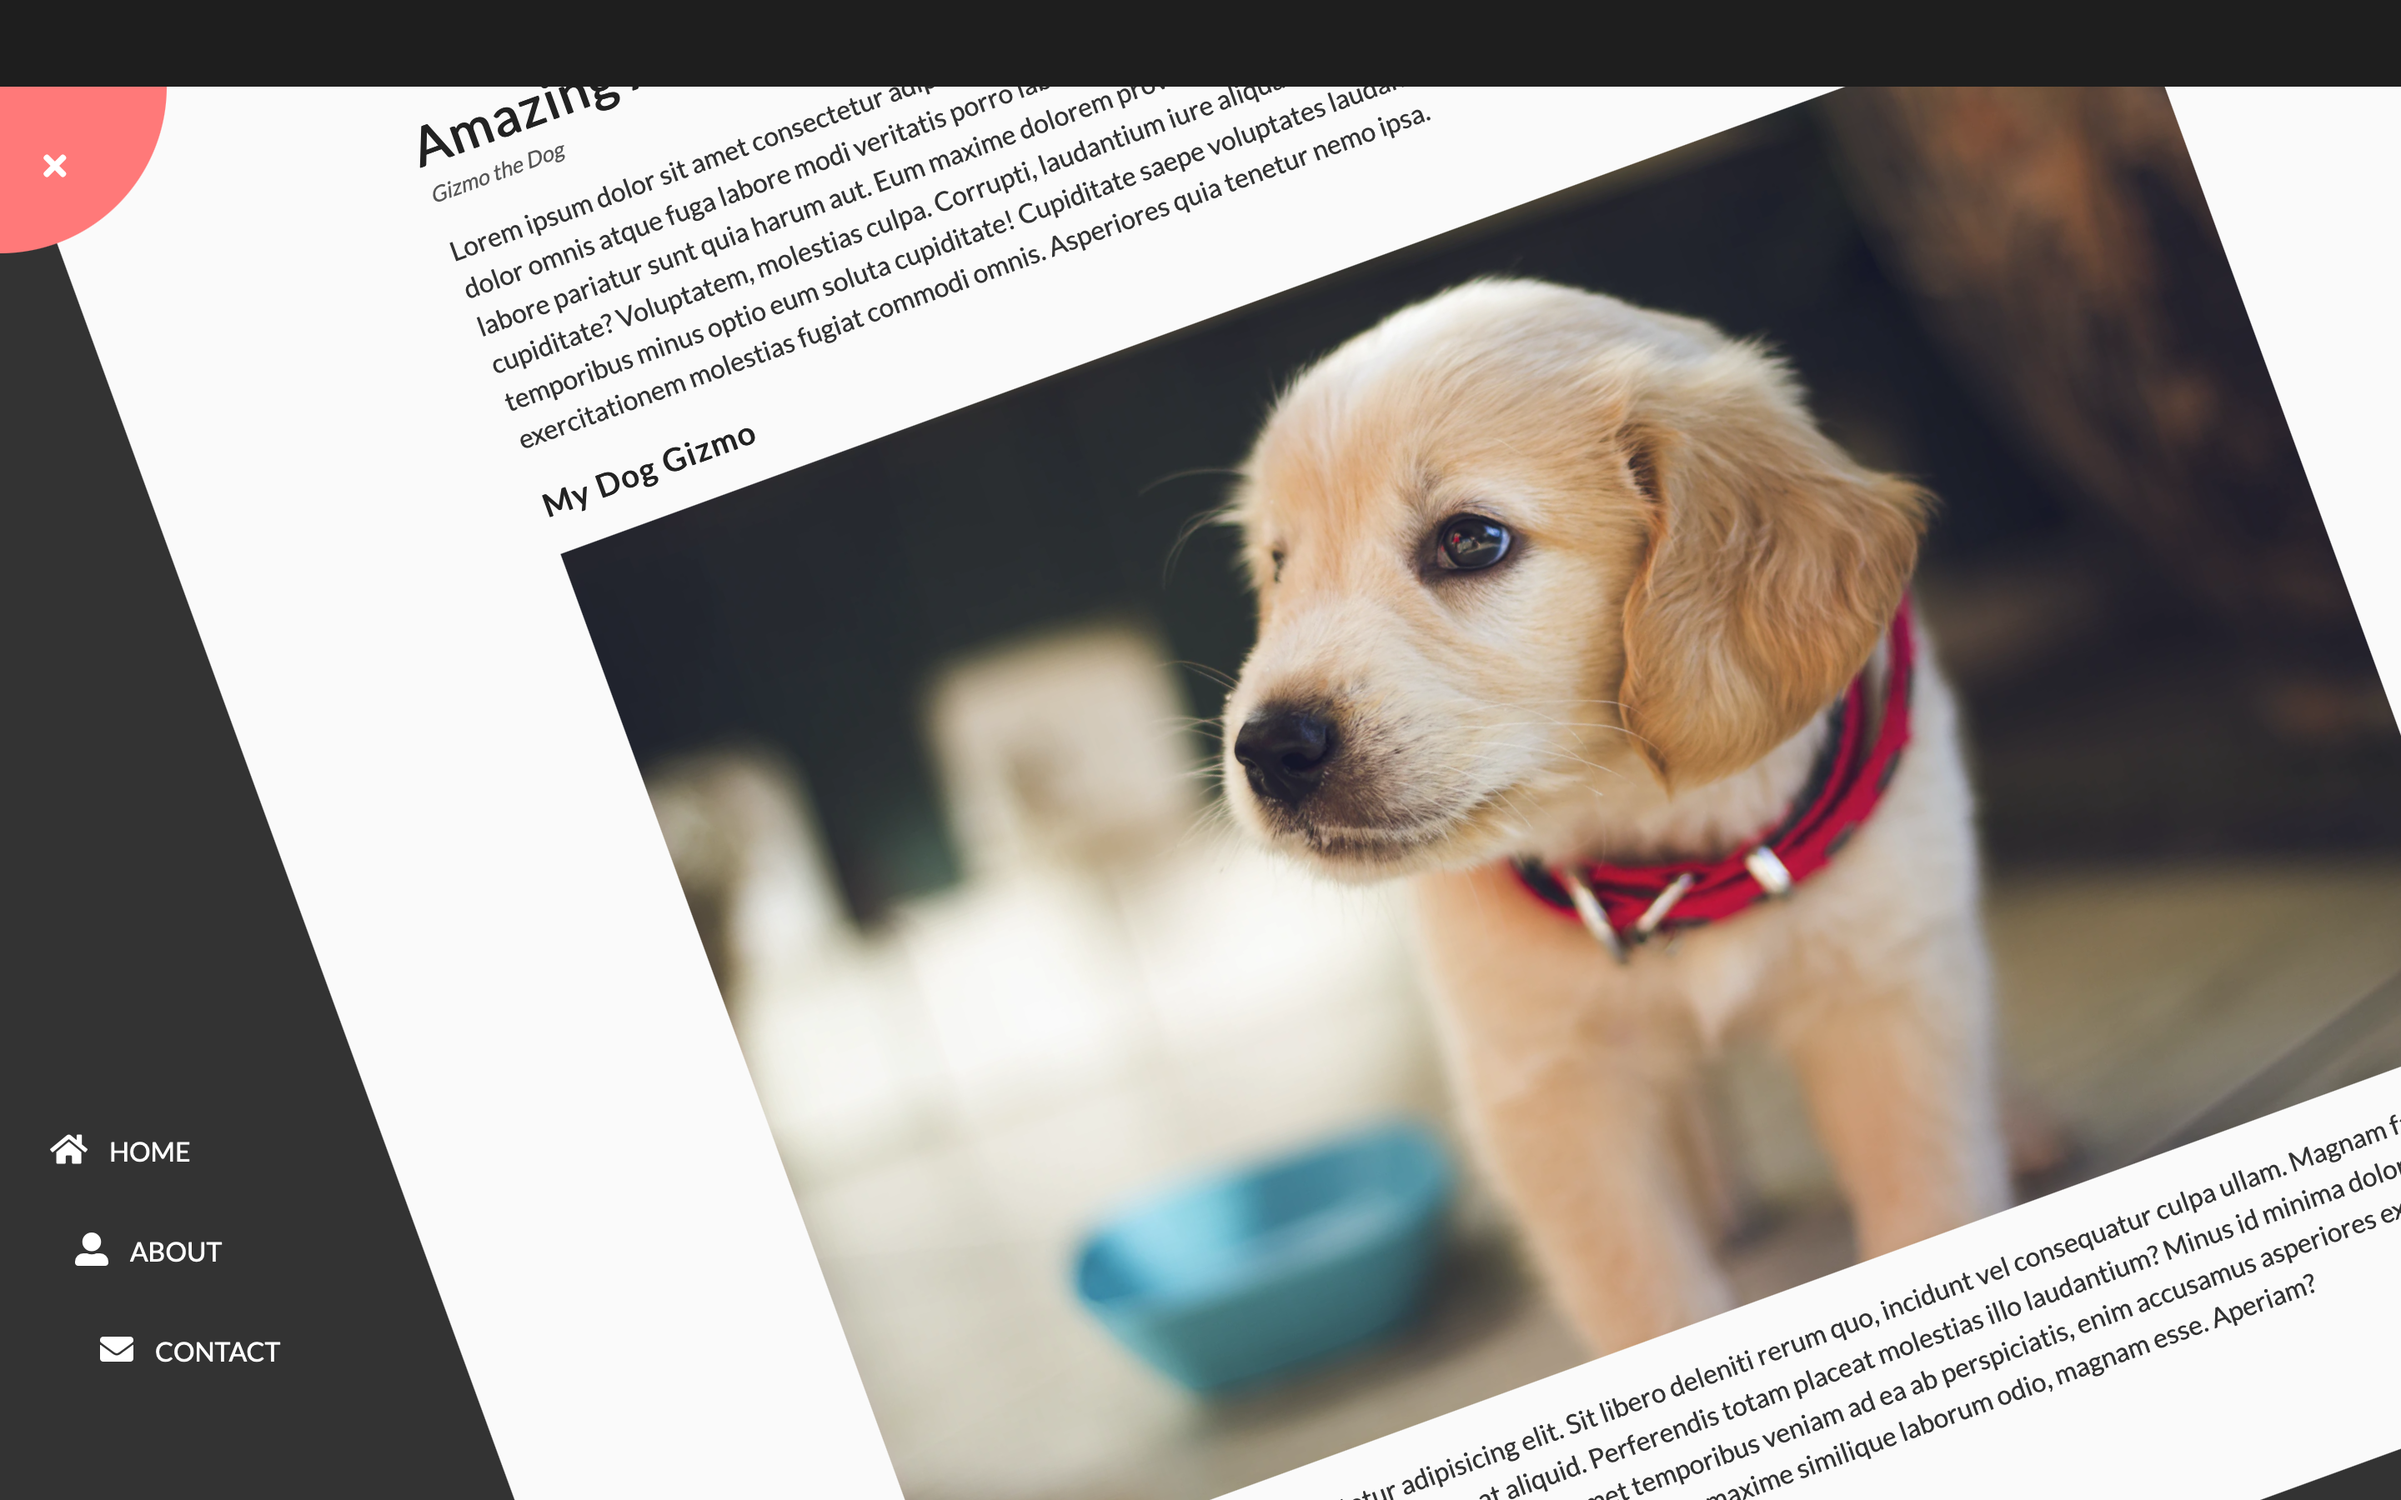
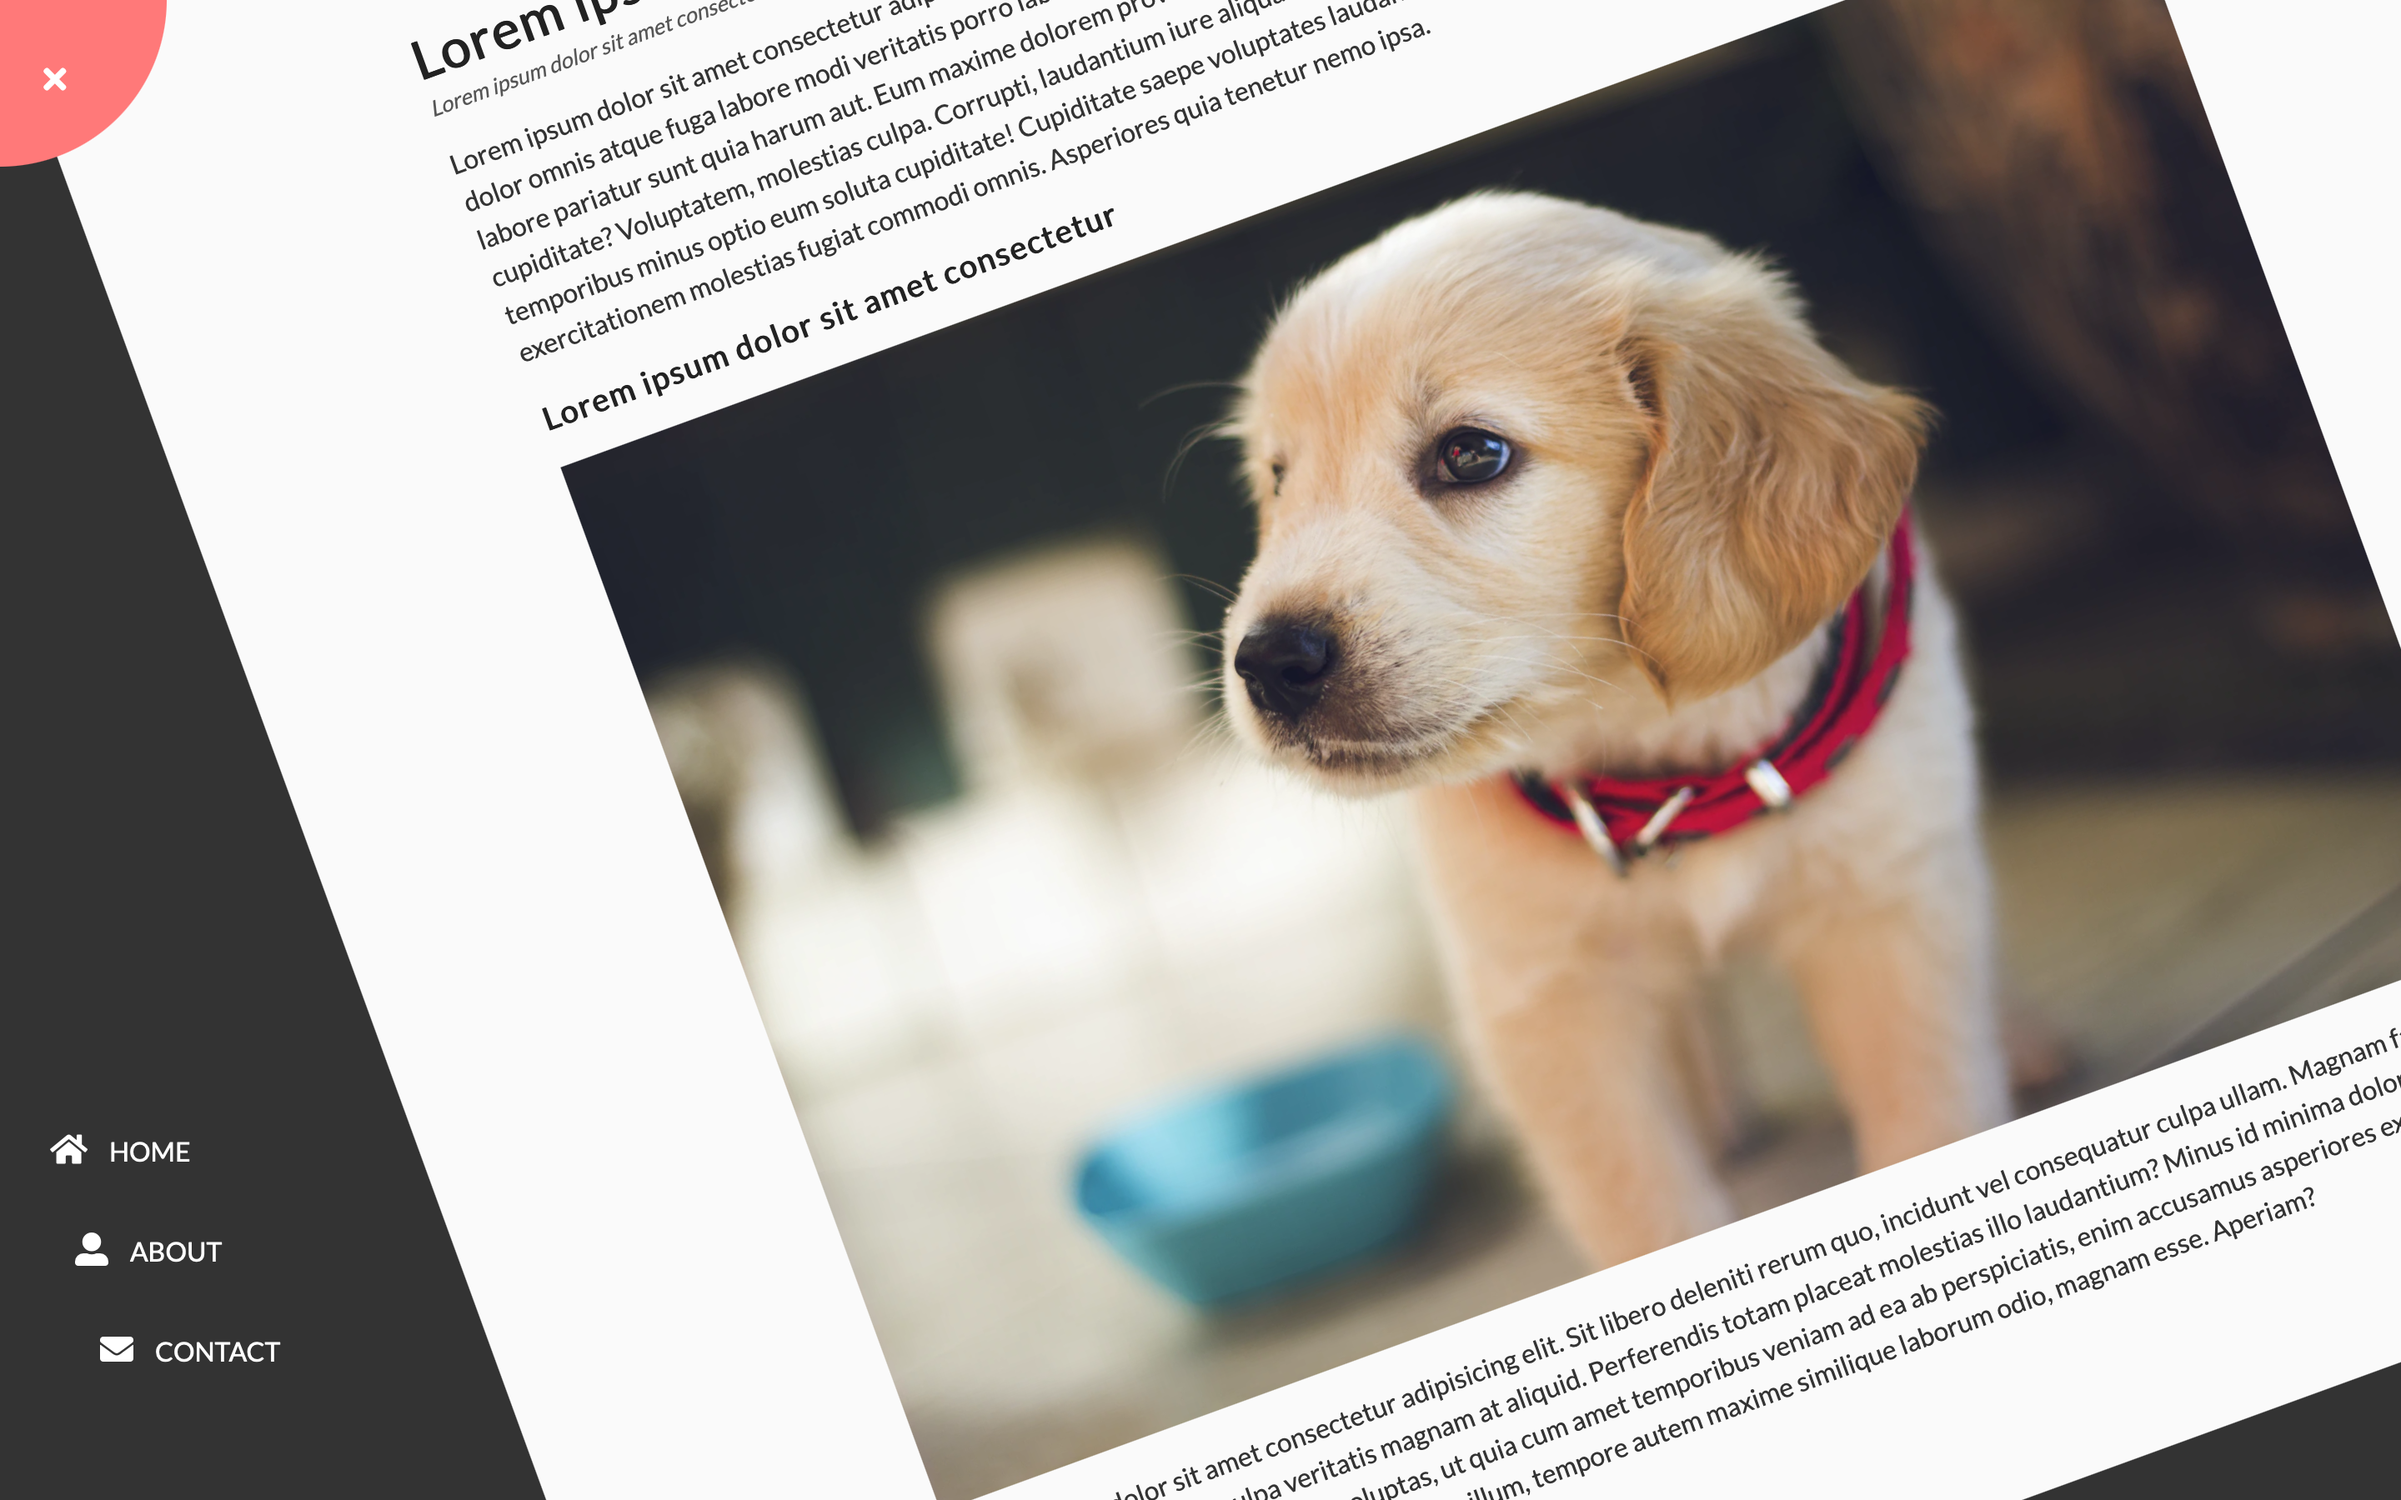
Update rotating navigation project

diff --git a/rotating-navigation/index.html b/rotating-navigation/index.html
@@ -24,8 +24,8 @@
       </div>
 
       <div class="content">
-        <h1>Amazing Animals</h1>
-        <small>Gizmo the Dog</small>
+        <h1>Lorem ipsum dolor sit amet consectetur</h1>
+        <small>Lorem ipsum dolor sit amet consectetur</small>
         <p>
           Lorem ipsum dolor sit amet consectetur adipisicing elit. Accusantium
           quia in ratione dolores cupiditate, maxime aliquid impedit dolorem nam
@@ -41,10 +41,10 @@
           tenetur nemo ipsa.
         </p>
 
-        <h3>My Dog Gizmo</h3>
+        <h3>Lorem ipsum dolor sit amet consectetur</h3>
         <img
           src="https://images.unsplash.com/photo-1507146426996-ef05306b995a?ixlib=rb-1.2.1&ixid=eyJhcHBfaWQiOjEyMDd9&auto=format&fit=crop&w=2100&q=80"
-          alt="doggy"
+          alt=""
         />
         <p>
           Lorem, ipsum dolor sit amet consectetur adipisicing elit. Sit libero
